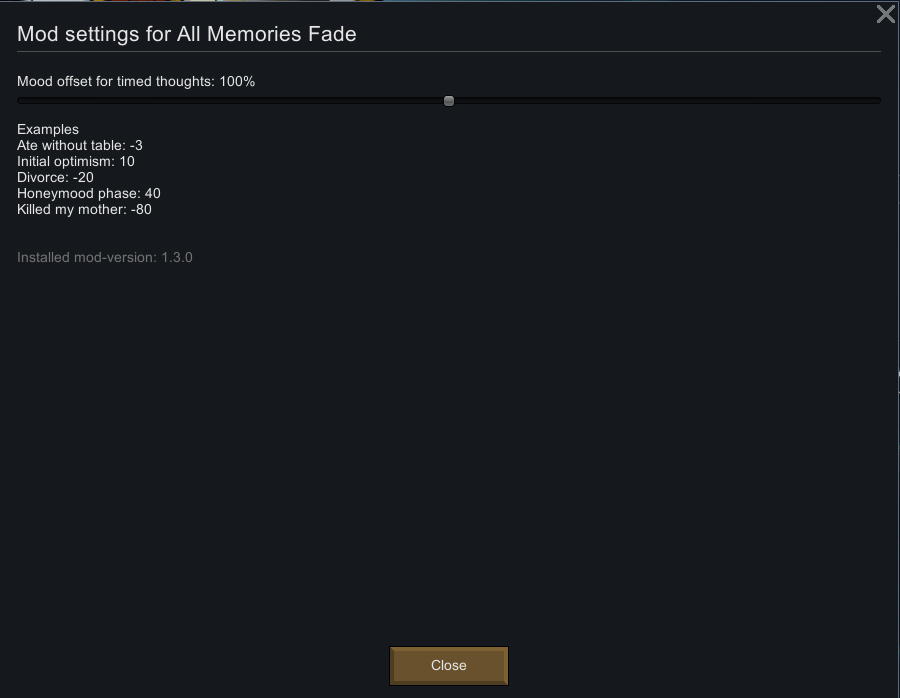
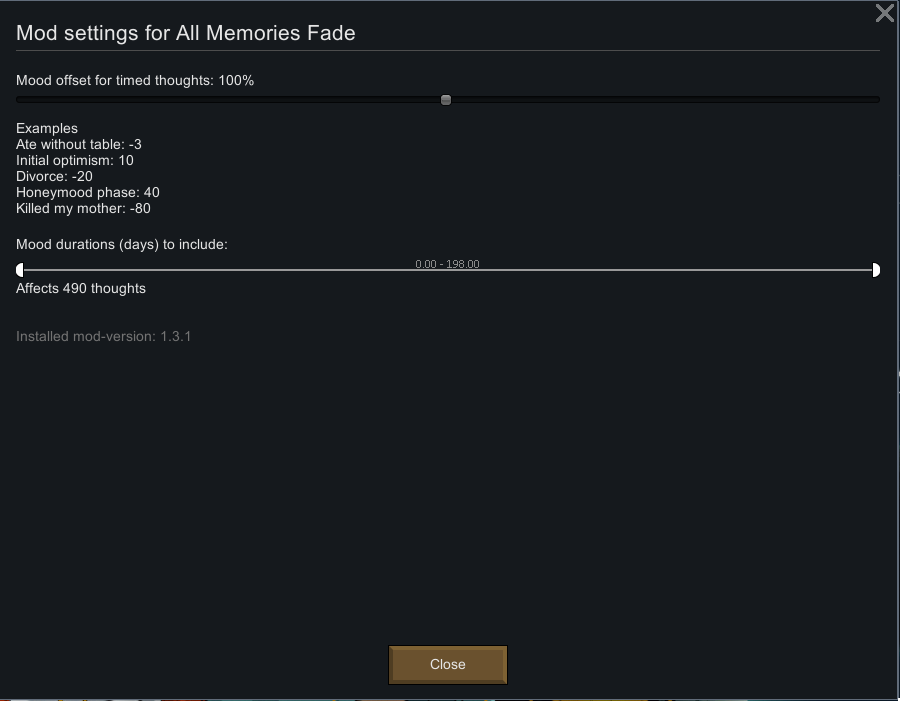
Added setting to exclude memories of certain durations

diff --git a/Source/AllMemoriesFade/AllMemoriesFade.cs b/Source/AllMemoriesFade/AllMemoriesFade.cs
@@ -9,15 +9,20 @@ namespace AllMemoriesFade;
 public class AllMemoriesFade
 {
     public static readonly Dictionary<string, List<float>> VanillaMoodValues;
+    public static readonly Dictionary<string, bool> VanillaLerpValues;
     public static readonly List<ThoughtDef> AllMoodThoughts;
+    public static readonly float MaxDuration;
 
     static AllMemoriesFade()
     {
-        AllMoodThoughts = DefDatabase<ThoughtDef>.AllDefs.Where(def => def.durationDays > 0).ToList();
+        AllMoodThoughts = DefDatabase<ThoughtDef>.AllDefs.Where(def => def.durationDays > 0.1f).ToList();
+        MaxDuration = AllMoodThoughts.Max(def => def.durationDays) * 1.1f;
+
         VanillaMoodValues = new Dictionary<string, List<float>>();
+        VanillaLerpValues = new Dictionary<string, bool>();
         foreach (var thoughtDef in AllMoodThoughts)
         {
-            thoughtDef.lerpMoodToZero = true;
+            VanillaLerpValues[thoughtDef.defName] = thoughtDef.lerpMoodToZero;
             VanillaMoodValues[thoughtDef.defName] = new List<float>();
             if (thoughtDef.stages == null || thoughtDef.stages.Count == 0)
             {
@@ -36,19 +41,37 @@ public class AllMemoriesFade
             }
         }
 
+        UpdateAffectedThoughts();
         UpdateMoodEffects();
+    }
+
+    public static void UpdateAffectedThoughts()
+    {
+        var currentAffectedThoughts = GetCurrentAffectedThoughts();
+        foreach (var thoughtDef in AllMoodThoughts)
+        {
+            if (currentAffectedThoughts.Contains(thoughtDef))
+            {
+                thoughtDef.lerpMoodToZero = true;
+                continue;
+            }
+
+            thoughtDef.lerpMoodToZero = VanillaLerpValues[thoughtDef.defName];
+        }
     }
 
     public static void UpdateMoodEffects()
     {
+        var currentAffectedThoughts = GetCurrentAffectedThoughts();
         if (AllMemoriesFadeMod.instance.Settings.MemoryMoodOffset != 1f)
         {
             Log.Message(
-                $"[AllMemoriesFade]: Changed all time-based mood-offsets by {AllMemoriesFadeMod.instance.Settings.MemoryMoodOffset.ToStringPercent()}");
+                $"[AllMemoriesFade]: Changed {currentAffectedThoughts.Count} mood-offsets by {AllMemoriesFadeMod.instance.Settings.MemoryMoodOffset.ToStringPercent()}");
         }
 
         foreach (var moodThought in AllMoodThoughts)
         {
+            var customValue = currentAffectedThoughts.Contains(moodThought);
             for (var i = 0; i < moodThought.stages.Count; i++)
             {
                 if (VanillaMoodValues[moodThought.defName][i] == -1f)
@@ -56,9 +79,24 @@ public class AllMemoriesFade
                     continue;
                 }
 
-                moodThought.stages[i].baseMoodEffect = VanillaMoodValues[moodThought.defName][i] *
-                                                       AllMemoriesFadeMod.instance.Settings.MemoryMoodOffset;
+                if (customValue)
+                {
+                    moodThought.stages[i].baseMoodEffect = VanillaMoodValues[moodThought.defName][i] *
+                                                           AllMemoriesFadeMod.instance.Settings.MemoryMoodOffset;
+                    continue;
+                }
+
+                moodThought.stages[i].baseMoodEffect = VanillaMoodValues[moodThought.defName][i];
             }
         }
+    }
+
+    public static List<ThoughtDef> GetCurrentAffectedThoughts()
+    {
+        return AllMoodThoughts.Where(def =>
+                def.durationDays >= AllMemoriesFadeMod.instance.Settings.DurationRange.min &&
+                def.durationDays <= AllMemoriesFadeMod.instance.Settings.DurationRange.max)
+            .OrderBy(def => def.durationDays)
+            .ToList();
     }
 }

diff --git a/Source/AllMemoriesFade/AllMemoriesFadeMod.cs b/Source/AllMemoriesFade/AllMemoriesFadeMod.cs
@@ -1,5 +1,7 @@
 using System;
+using System.Linq;
 using Mlie;
+using RimWorld;
 using UnityEngine;
 using Verse;
 
@@ -74,6 +76,22 @@ internal class AllMemoriesFadeMod : Mod
             Math.Round(10 * Settings.MemoryMoodOffset), Math.Round(-20f * Settings.MemoryMoodOffset),
             Math.Round(40f * Settings.MemoryMoodOffset), Math.Round(-80f * Settings.MemoryMoodOffset)));
 
+        listing_Standard.Gap();
+
+        listing_Standard.Label("AMF.DurationExclusion".Translate(), -1,
+            "AMF.DurationExclusion.Tooltip".Translate());
+        Widgets.FloatRange(listing_Standard.GetRect(20f), SettingsCategory().GetHashCode(), ref Settings.DurationRange,
+            0, AllMemoriesFade.MaxDuration);
+        var currentThougths = AllMemoriesFade.GetCurrentAffectedThoughts();
+        var lowThoughts = string.Join("\n", currentThougths.Where(def =>
+                def.durationDays == currentThougths.Min(thoughtDef => thoughtDef.durationDays))
+            .Select(def => $"{def.defName}: {def.DurationTicks.ToStringTicksToDays()}"));
+        var highThoughts = string.Join("\n", currentThougths.Where(def =>
+                def.durationDays == currentThougths.Max(thoughtDef => thoughtDef.durationDays))
+            .Select(def => $"{def.defName}: {def.DurationTicks.ToStringTicksToDays()}"));
+
+        listing_Standard.Label("AMF.IncludesThoughts".Translate(currentThougths.Count), -1f,
+            $"{lowThoughts}\n...\n{highThoughts}");
         listing_Standard.Gap();
         if (currentVersion != null)
         {

diff --git a/Source/AllMemoriesFade/AllMemoriesFadeSettings.cs b/Source/AllMemoriesFade/AllMemoriesFadeSettings.cs
@@ -7,6 +7,7 @@ namespace AllMemoriesFade;
 /// </summary>
 internal class AllMemoriesFadeSettings : ModSettings
 {
+    public FloatRange DurationRange = new FloatRange(0, float.MaxValue);
     public float MemoryMoodOffset = 1f;
 
     /// <summary>
@@ -16,5 +17,6 @@ internal class AllMemoriesFadeSettings : ModSettings
     {
         base.ExposeData();
         Scribe_Values.Look(ref MemoryMoodOffset, "MemoryMoodOffset", 1f);
+        Scribe_Values.Look(ref DurationRange, "DurationRange", new FloatRange(0, float.MaxValue));
     }
 }

diff --git a/README.md b/README.md
@@ -9,6 +9,8 @@ This will affect all memories, bad and good, with the result that pawns should g
 
 Can be added/removed from saved with no issues.
 
+- Added settings for changing the base mood-values for all memories. Setting it very high might make your colonist have extreme reactions.
+
 ## Performance
 
 The feature was actually added in 1.3 vanilla code as an optional property for memories. All this mod does is to make all memories use it. As such it should not cause any noticeable performance issues.
